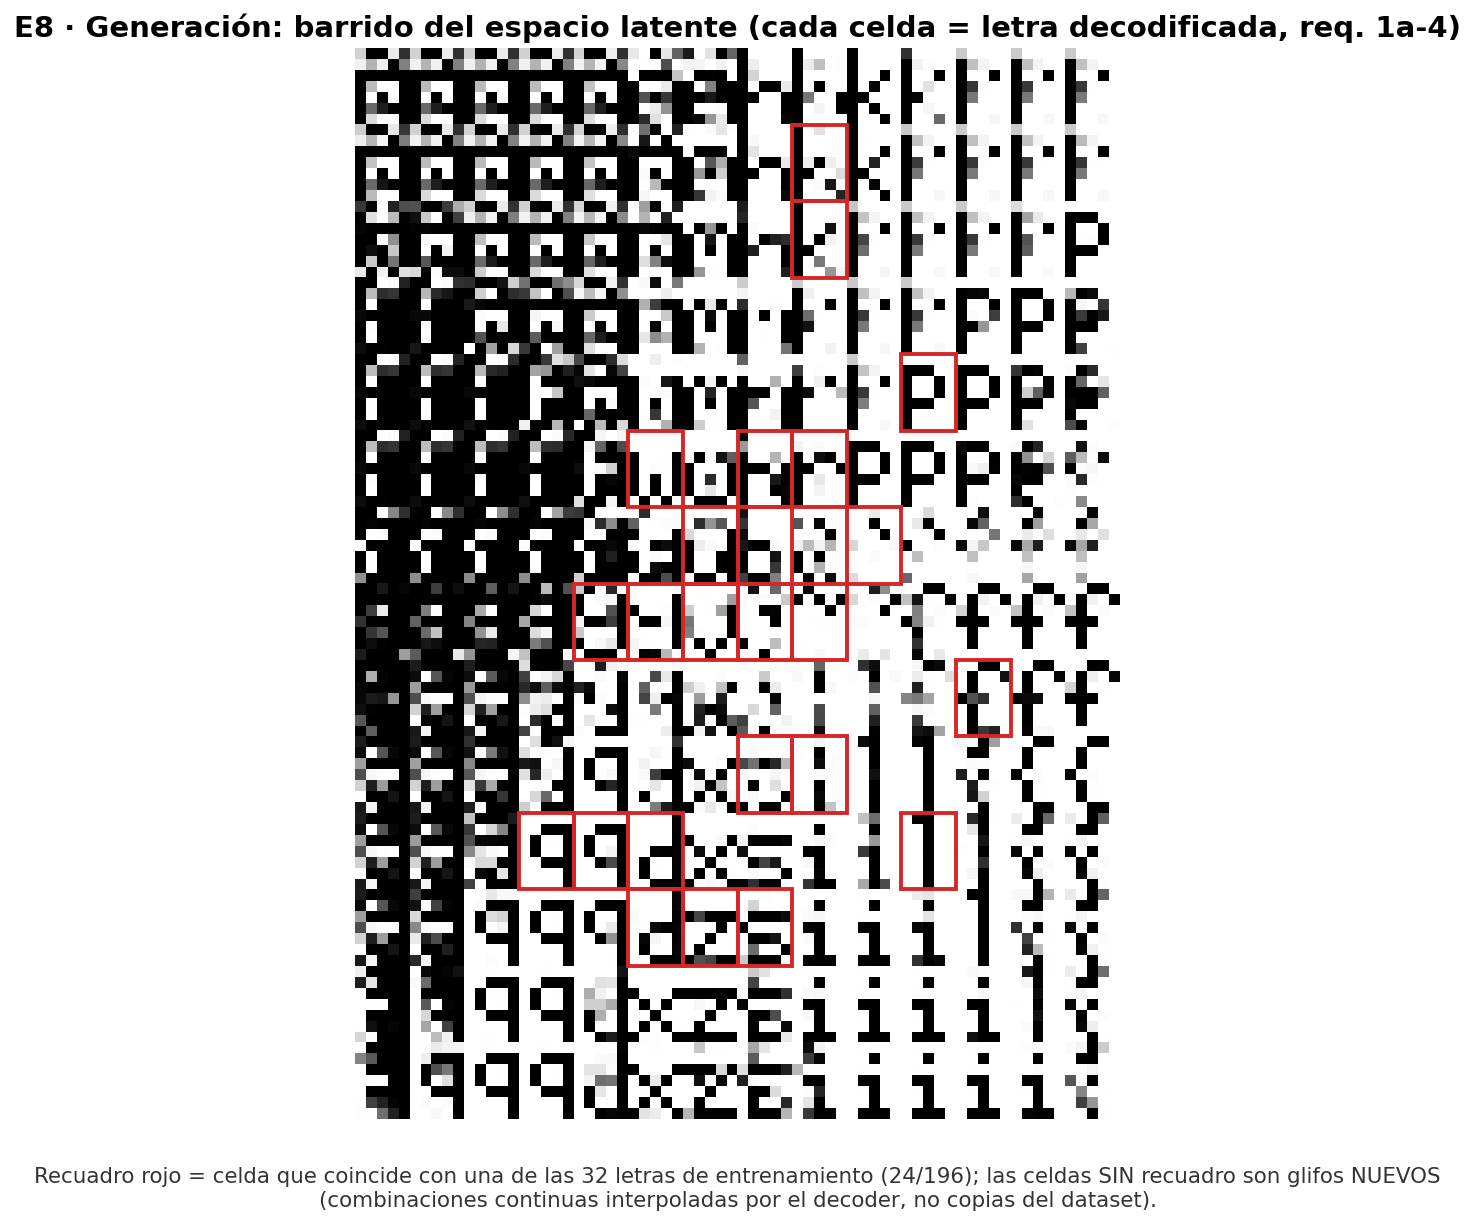
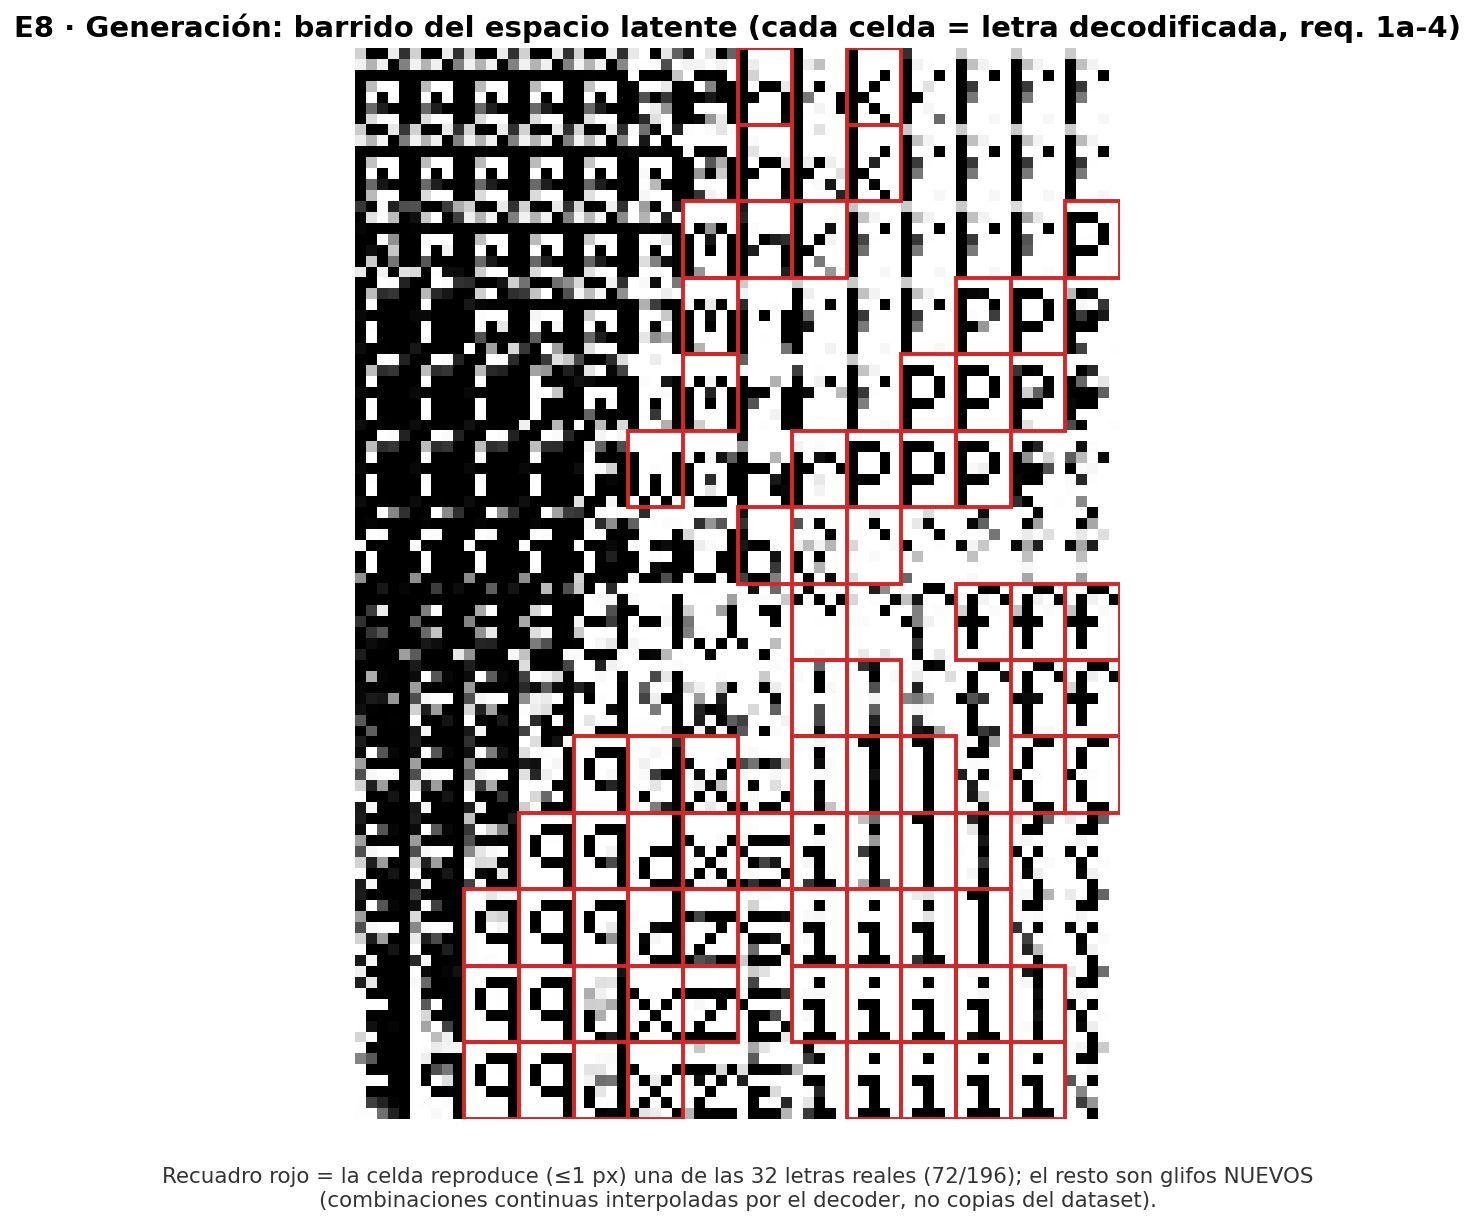
fix(fig): E8c marca coincidencia REAL en pixeles (Hamming), no un percentil de z
El recuadro rojo marcaba el 12% de celdas mas cercanas a una letra EN EL LATENTE
(percentil arbitrario: el '24/196' era circular) y caia sobre transiciones borrosas.
Ahora decodifica cada celda, binariza y la compara en pixeles con las 32 letras reales:
marca solo las que reproducen una letra a <=1px. Conteo real (72/196) y los recuadros
caen sobre las letras nitidas. Detectado por revision humana.

diff --git a/ej1a_autoencoder/make_figures.py b/ej1a_autoencoder/make_figures.py
@@ -203,30 +203,30 @@ def e8():
     NG = 14
     gx = np.linspace(x0 - dx, x1 + dx, NG); gy = np.linspace(y1 + dy, y0 - dy, NG)
     canvas = np.ones((len(gy) * H, len(gx) * W))
+    cell_bits = np.zeros((NG, NG, H * W))     # decodificación BINARIZADA de cada celda
     for r, yy in enumerate(gy):
         for c2, xx in enumerate(gx):
-            canvas[r * H:(r + 1) * H, c2 * W:(c2 + 1) * W] = decode(ae, [[xx, yy]])[0].reshape(H, W)
+            dec = decode(ae, [[xx, yy]])[0]
+            canvas[r * H:(r + 1) * H, c2 * W:(c2 + 1) * W] = dec.reshape(H, W)
+            cell_bits[r, c2] = (dec > 0.5).astype(float)
     fig, ax = plt.subplots(figsize=(9.5, 9.8)); ax.imshow(canvas); ax.axis("off")
-    # Anotación: marcar las celdas de la grilla que caen sobre una letra REAL del dataset
-    # (su z más cercano es esa letra) para distinguir las "copias" de las letras NUEVAS.
-    gxv, gyv = np.meshgrid(gx, gy)            # (NG, NG)
-    grid_pts = np.stack([gxv.ravel(), gyv.ravel()], 1)        # (NG*NG, 2)
-    d2 = ((grid_pts[:, None, :] - Z[None, :, :]) ** 2).sum(-1)  # (cells, N letras)
-    nearest = d2.min(1)
-    # umbral: una celda "es una letra del dataset" si está muy cerca de un z conocido
-    thr = np.percentile(nearest, 12)
+    # Anotación HONESTA: una celda es "copia" si su imagen decodificada REPRODUCE en PÍXELES
+    # (Hamming <= THR_PX) alguna de las 32 letras reales. Conteo real (no un percentil).
+    Xbits = (X > 0.5).astype(float)           # las 32 letras del dataset, binarizadas
+    THR_PX = 1
     n_known = 0
-    for idx, dmin in enumerate(nearest):
-        if dmin <= thr:
-            rr, cc = idx // NG, idx % NG
-            rect = plt.Rectangle((cc * W - 0.5, rr * H - 0.5), W, H,
-                                 fill=False, edgecolor="#d62728", lw=2.0, zorder=5)
-            ax.add_patch(rect)
-            n_known += 1
+    for r in range(NG):
+        for c2 in range(NG):
+            ham = np.abs(cell_bits[r, c2][None, :] - Xbits).sum(1).min()  # px vs la letra más parecida
+            if ham <= THR_PX:
+                rect = plt.Rectangle((c2 * W - 0.5, r * H - 0.5), W, H,
+                                     fill=False, edgecolor="#d62728", lw=2.0, zorder=5)
+                ax.add_patch(rect)
+                n_known += 1
     ax.set_title("E8 · Generación: barrido del espacio latente (cada celda = letra decodificada, req. 1a-4)")
     ax.text(0.5, -0.045,
-            f"Recuadro rojo = celda que coincide con una de las 32 letras de entrenamiento "
-            f"({n_known}/{NG*NG}); las celdas SIN recuadro son glifos NUEVOS\n"
+            f"Recuadro rojo = la celda reproduce (≤{THR_PX} px) una de las 32 letras reales "
+            f"({n_known}/{NG*NG}); el resto son glifos NUEVOS\n"
             f"(combinaciones continuas interpoladas por el decoder, no copias del dataset).",
             transform=ax.transAxes, ha="center", va="top", fontsize=11, color="#333333")
     fig.subplots_adjust(bottom=0.10)